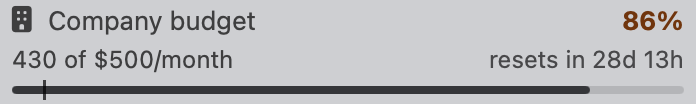
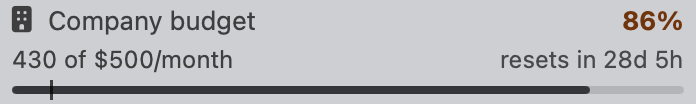
feat(site): cards for free reset tickets and accounts without a limit
A fourth card row "Extras" with the card pair from the candidates list:
"Free limit resets at a glance" (stem tickets, app spec 033) and "Free
models, valued at a real price" (stem no-limit, app spec 041). The page
test counts eight cards in four rows; both candidates leave the list.
The budget card goes back to its text on main, since the new card tells
the No limit story. All shots recaptured from the demo build; the
existing ones differ only in reset times and the pace tick.

Assisted-By: 🤖 Claude Code

Changed region(s): [[0.694, 0.4615, 0.9957, 0.6635], [0.0603, 0.7788, 0.0905, 0.9519]]

diff --git a/src/data/features.ts b/src/data/features.ts
@@ -20,7 +20,7 @@ export const featureRows: { label: string; features: Feature[] }[] = [
       },
       {
         title: 'Budgets you define',
-        body: 'Pay-per-token spend on Vertex, the OpenAI API or a company gateway, against your own weekly or monthly budget. One budget can span several accounts and harnesses, for a unified view of what you are spending. Free models can go without a limit and show what their tokens would have cost.',
+        body: 'Pay-per-token spend on Vertex, the OpenAI API or a company gateway, against your own weekly or monthly budget. One budget can span several accounts and harnesses, for a unified view of what you are spending.',
         stem: 'budget',
         alt: 'A company budget with 430 of 500 dollars spent this month and an orange pace note',
       },
@@ -57,6 +57,23 @@ export const featureRows: { label: string; features: Feature[] }[] = [
         body: 'Pick the entries and their order with a live preview. Show levels as colored text, as a pill, or not at all.',
         stem: 'menubar-settings',
         alt: 'The live preview of the bar with the levels as orange and red pills, and the level color set to Pill',
+      },
+    ],
+  },
+  {
+    label: 'Extras',
+    features: [
+      {
+        title: 'Free limit resets at a glance',
+        body: 'Claude and Codex sometimes grant free limit resets. AgentTacho shows each one next to the account and reminds you before it expires.',
+        stem: 'tickets',
+        alt: 'A Claude Max account with two gift icons for free limit resets next to its name, above its 7-day limit',
+      },
+      {
+        title: 'Free models, valued at a real price',
+        body: 'Track free gateway models without a made-up limit, and see what their tokens would have cost at a real model’s price.',
+        stem: 'no-limit',
+        alt: 'An account for free models with 48.2M tokens this month, worth about 108 dollars at claude-opus-5-5 prices',
       },
     ],
   },

diff --git a/tests/page.test.ts b/tests/page.test.ts
@@ -72,11 +72,11 @@ test('has the sections', { skip }, () => {
   }
 });
 
-test('has six feature cards in three pairs', { skip }, () => {
-  assert.equal(count(/data-feature-card/), 6);
+test('has eight feature cards in four pairs', { skip }, () => {
+  assert.equal(count(/data-feature-card/), 8);
   // HTML-encodes the ampersand, so decode before comparing.
   const labels = [...html.matchAll(/data-feature-row[^>]*>([^<]+)</g)].map(([, l]) => l.trim().replace(/&amp;/g, '&'));
-  assert.deepEqual(labels, ['Usage & limits', 'Accounts', 'Control']);
+  assert.deepEqual(labels, ['Usage & limits', 'Accounts', 'Control', 'Extras']);
 });
 
 test('has the one-line strip', { skip }, () => {
@@ -89,7 +89,7 @@ test('has the one-line strip', { skip }, () => {
 test('every feature image has a dark variant', { skip }, () => {
   // Each card is an <article data-feature-card>; its markup ends at </article>.
   const cards = html.split(/data-feature-card/).slice(1);
-  assert.equal(cards.length, 6);
+  assert.equal(cards.length, 8);
   for (const card of cards) {
     const body = card.split('</article>')[0];
     assert.match(body, /data-theme-variant="?light/, 'light variant');

diff --git a/docs/card-candidates.md b/docs/card-candidates.md
@@ -16,18 +16,4 @@ The app pull request that ships a card-worthy feature adds its entry here in a s
 
 ## Candidates
 
-### Free reset tickets
-
-- **Feature**: Free limit resets at a glance
-- **App**: brainstorm 32, spec 033 (`specs/033-free-reset-tickets`), merged to main as `ff4301c`
-- **Status**: ready
-- **Shot idea**: a Claude section header with gift glyphs next to the account name and a tooltip naming the expiry; the demo scenario already gives `acc-max` two tickets (one expiring in 2d 4h, one without expiry), so the existing `glance` shot shows the glyphs
-- **Card copy draft**: Claude and Codex sometimes grant free limit resets. AgentTacho shows each one next to the account and reminds you before it expires.
-
-### Accounts without a limit
-
-- **Feature**: Free models, valued at a real price
-- **App**: brainstorm 41, spec 041 (`specs/041-no-limit-accounts`), merged in AgentTacho/agenttacho `fd90648`
-- **Status**: ready
-- **Shot idea**: the No limit section of the demo account `acc-free` ("Free models"): the token headline ("48.2M") and below it "≈ $108 at claude-opus-5-5 prices" with the reset time on the right; the default demo scenario already shows it after the Side project section
-- **Card copy draft**: Track free gateway models without a made-up limit, and see what they would have cost at a real model's price.
+None right now.
